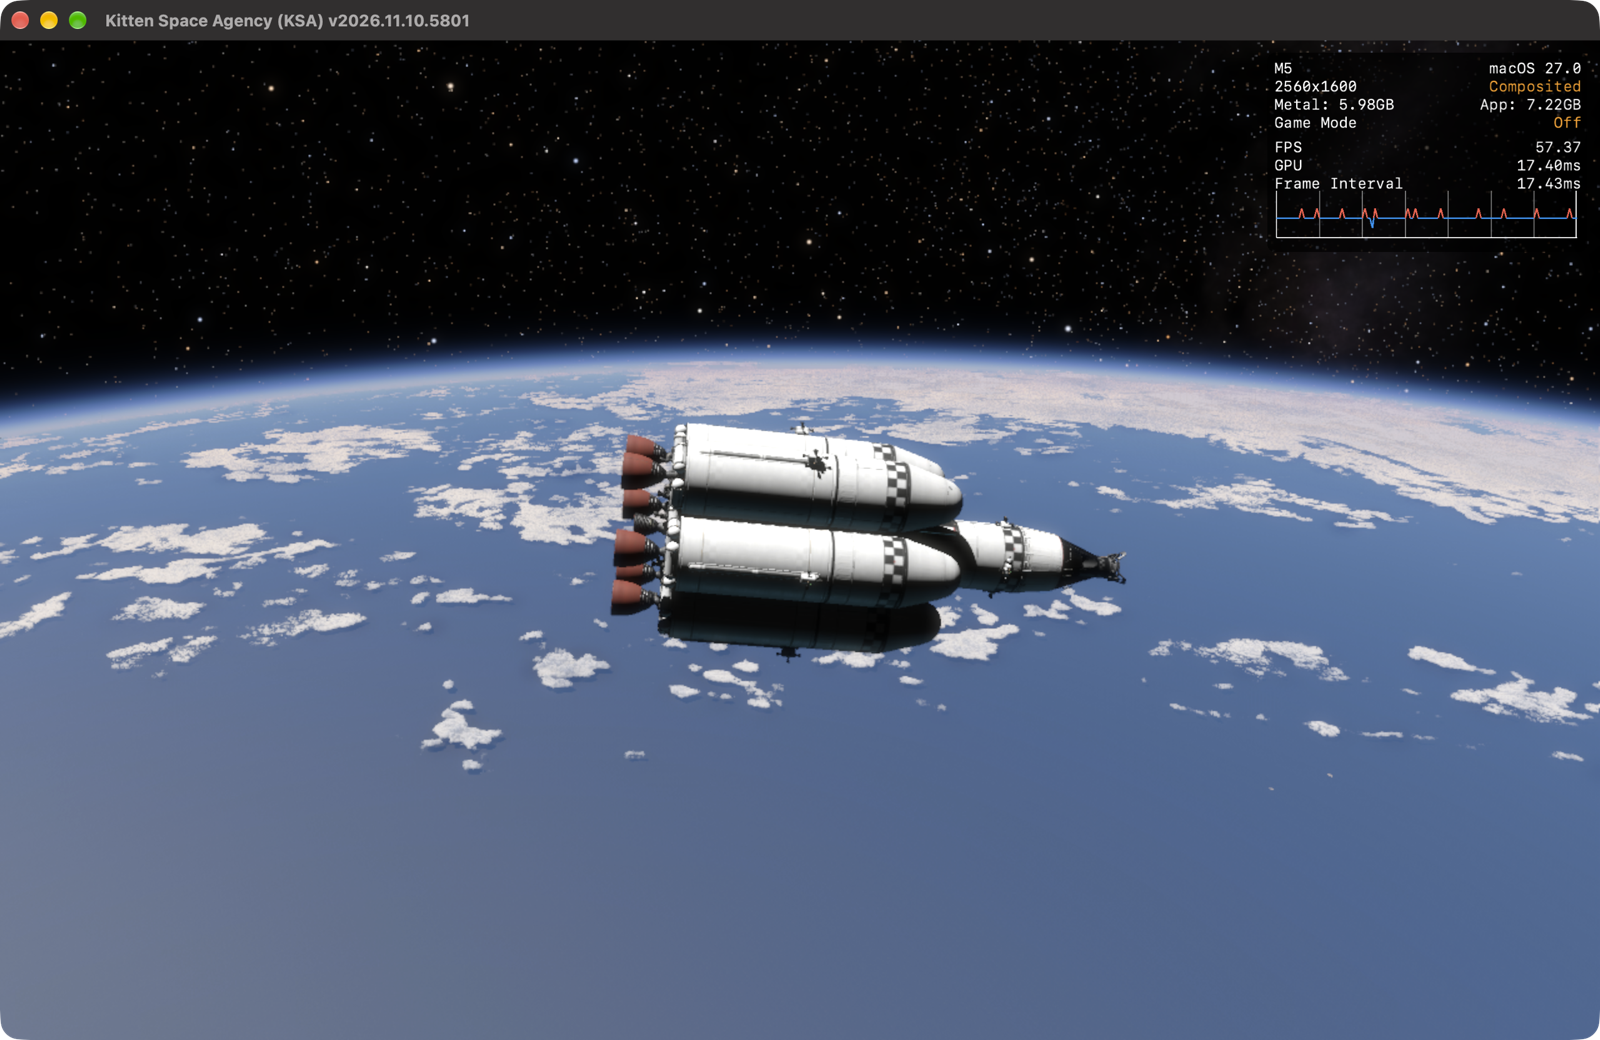
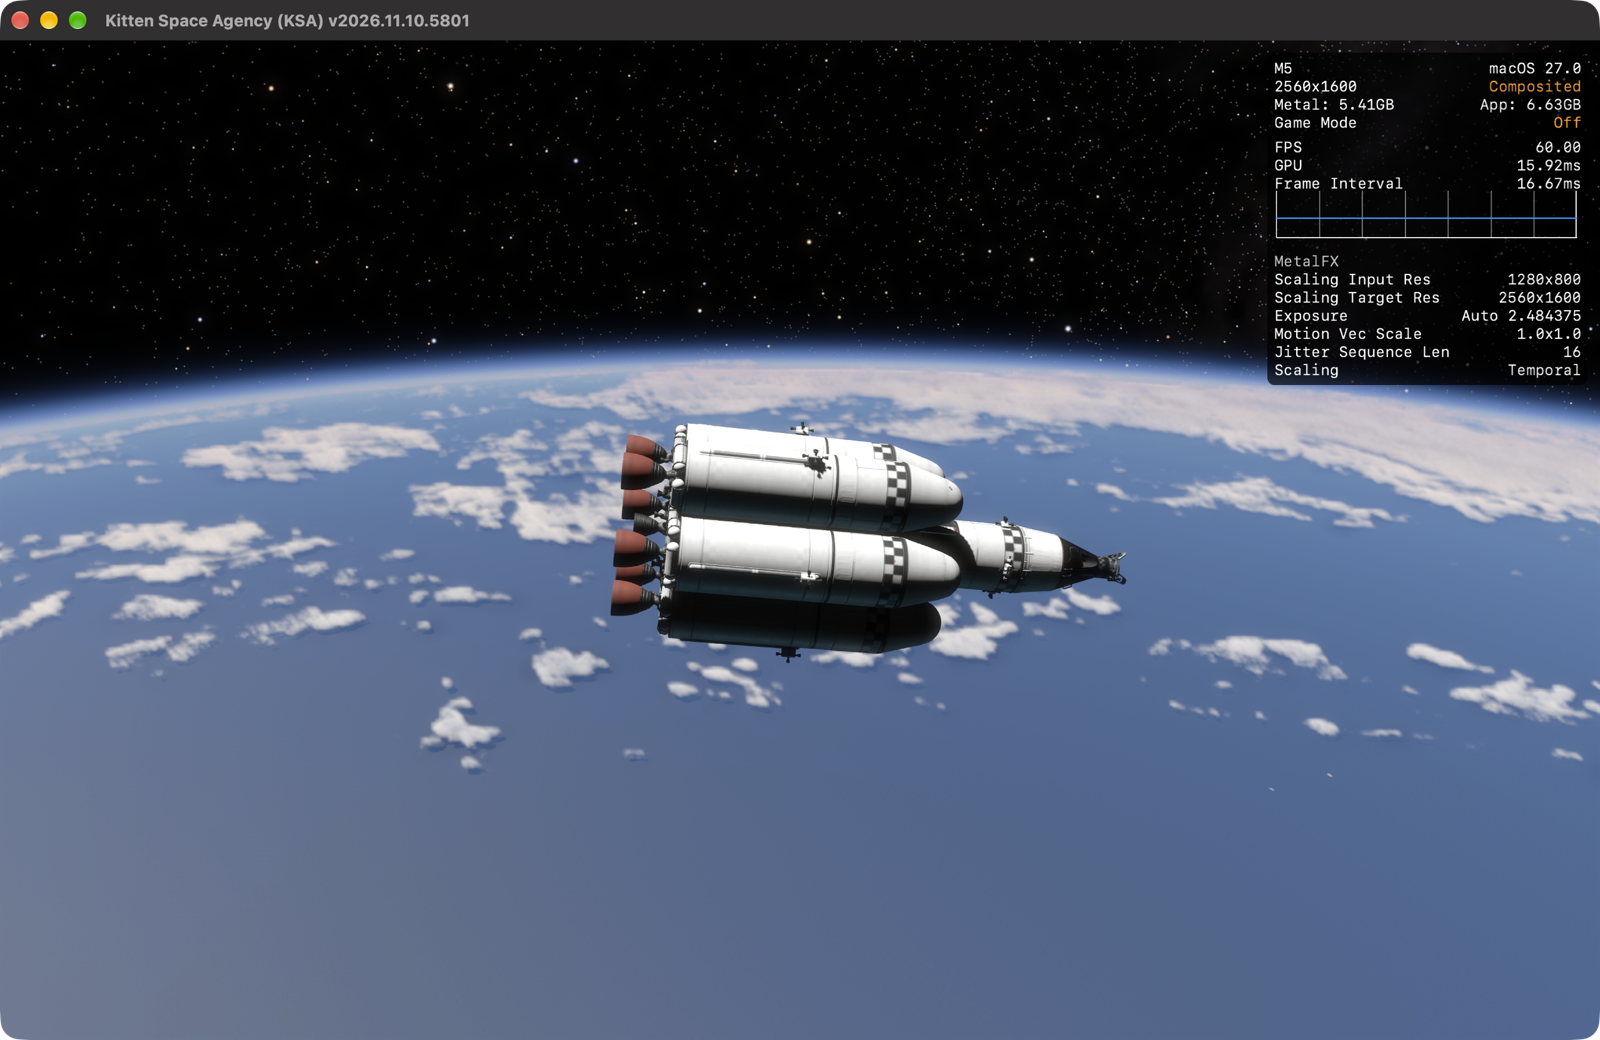
The README's pictures: Quality with MetalFX Temporal and Steady Frame Rate
Made by scripts/readme-screenshots.sh on a MacBook Pro with Apple M5,
KSA 2026.11.10.5801: the game at 60 fps under Apple's HUD, and the Mac
Port tab alone over the scene.

diff --git a/README.md b/README.md
@@ -10,7 +10,7 @@
 <p align="center">
   <img alt="Kitten Space Agency on a Mac: the game's rocket in orbit over Earth, with Apple's Metal Performance HUD" src=".github/images/game.png" width="880">
 </p>
-<p align="center"><sub>MacBook Pro with Apple M5, KSA 2026.11.10.5801, the game's default settings in a 1280x800 window</sub></p> <!-- the caption: scripts/readme-screenshots.sh writes it with the pictures -->
+<p align="center"><sub>MacBook Pro with Apple M5, KSA 2026.11.10.5801, the Quality preset with MetalFX Temporal and Steady Frame Rate in a 1280x800 window</sub></p> <!-- the caption: scripts/readme-screenshots.sh writes it with the pictures -->
 
 An experimental community project that turns the Linux version of **Kitten Space Agency** (KSA) into a native Mac
 app for Apple Silicon. It draws the game with **KSA Metal**: a Vulkan driver written for KSA on top of Apple's Metal,
